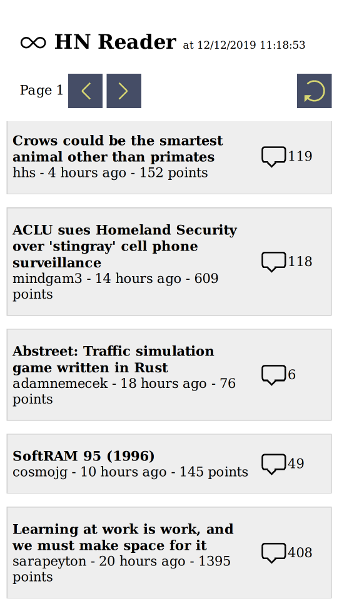
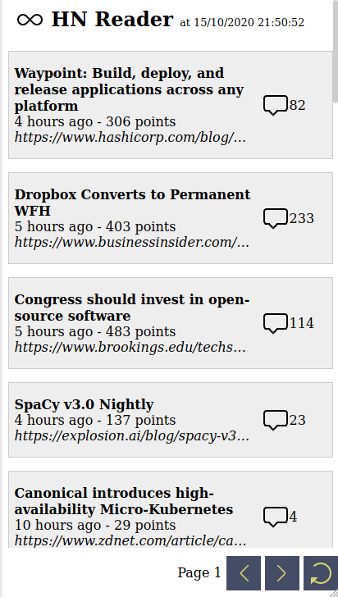
Move toolbar to the bottom

diff --git a/src/App.svelte b/src/App.svelte
@@ -38,31 +38,37 @@
     width: 100%;
     margin: 0 auto;
   }
-  header {
+  header, footer {
     max-width: 1024px;
     width: 100%;
     position: fixed;
-    top: 0;
     background-color: #fff;
     z-index: 9999;
   }
-  header > section {
-    padding: 1rem;
+  header {
+    top: 0;
+  }
+  footer {
+    bottom: 0;
+  }
+  header > section > h1 {
+    margin:10px;
   }
   header > section > h1 > span {
     font-weight:normal;
     font-size: 0.8rem;
   }
-  header > section i {
+  footer > section i {
     cursor: pointer;
   }
-  header > section > .toolbar {
+  footer > section > .toolbar {
     display: flex;
-    justify-content: space-between;
+    justify-content: end;
     align-items: center;
+    margin: 10px;
   }
   main > section {
-    padding-top: 8.5rem;
+    padding: 3.5rem 0;
   }
   button {
     border: 0;
@@ -87,6 +93,15 @@
           HN Reader
           <span>at {lasttime}</span>
         </h1>
+      </section>
+    </header>
+    <section>
+      {#each news as item (item.id)}
+        <NewsItem {item} />
+      {/each}
+    </section>
+    <footer>
+      <section>
         <div class="toolbar">
           <span>
             Page {page}
@@ -96,17 +111,12 @@
             <button on:click={next}>
               <i class="icono-caretRight" />
             </button>
+            <button on:click={reload}>
+              <i class="icono-reset" />
+            </button>
           </span>
-          <button on:click={reload}>
-            <i class="icono-reset" />
-          </button>
         </div>
       </section>
-    </header>
-    <section>
-      {#each news as item (item.id)}
-        <NewsItem {item} />
-      {/each}
-    </section>
+    </footer>
   </main>
 {/if}
